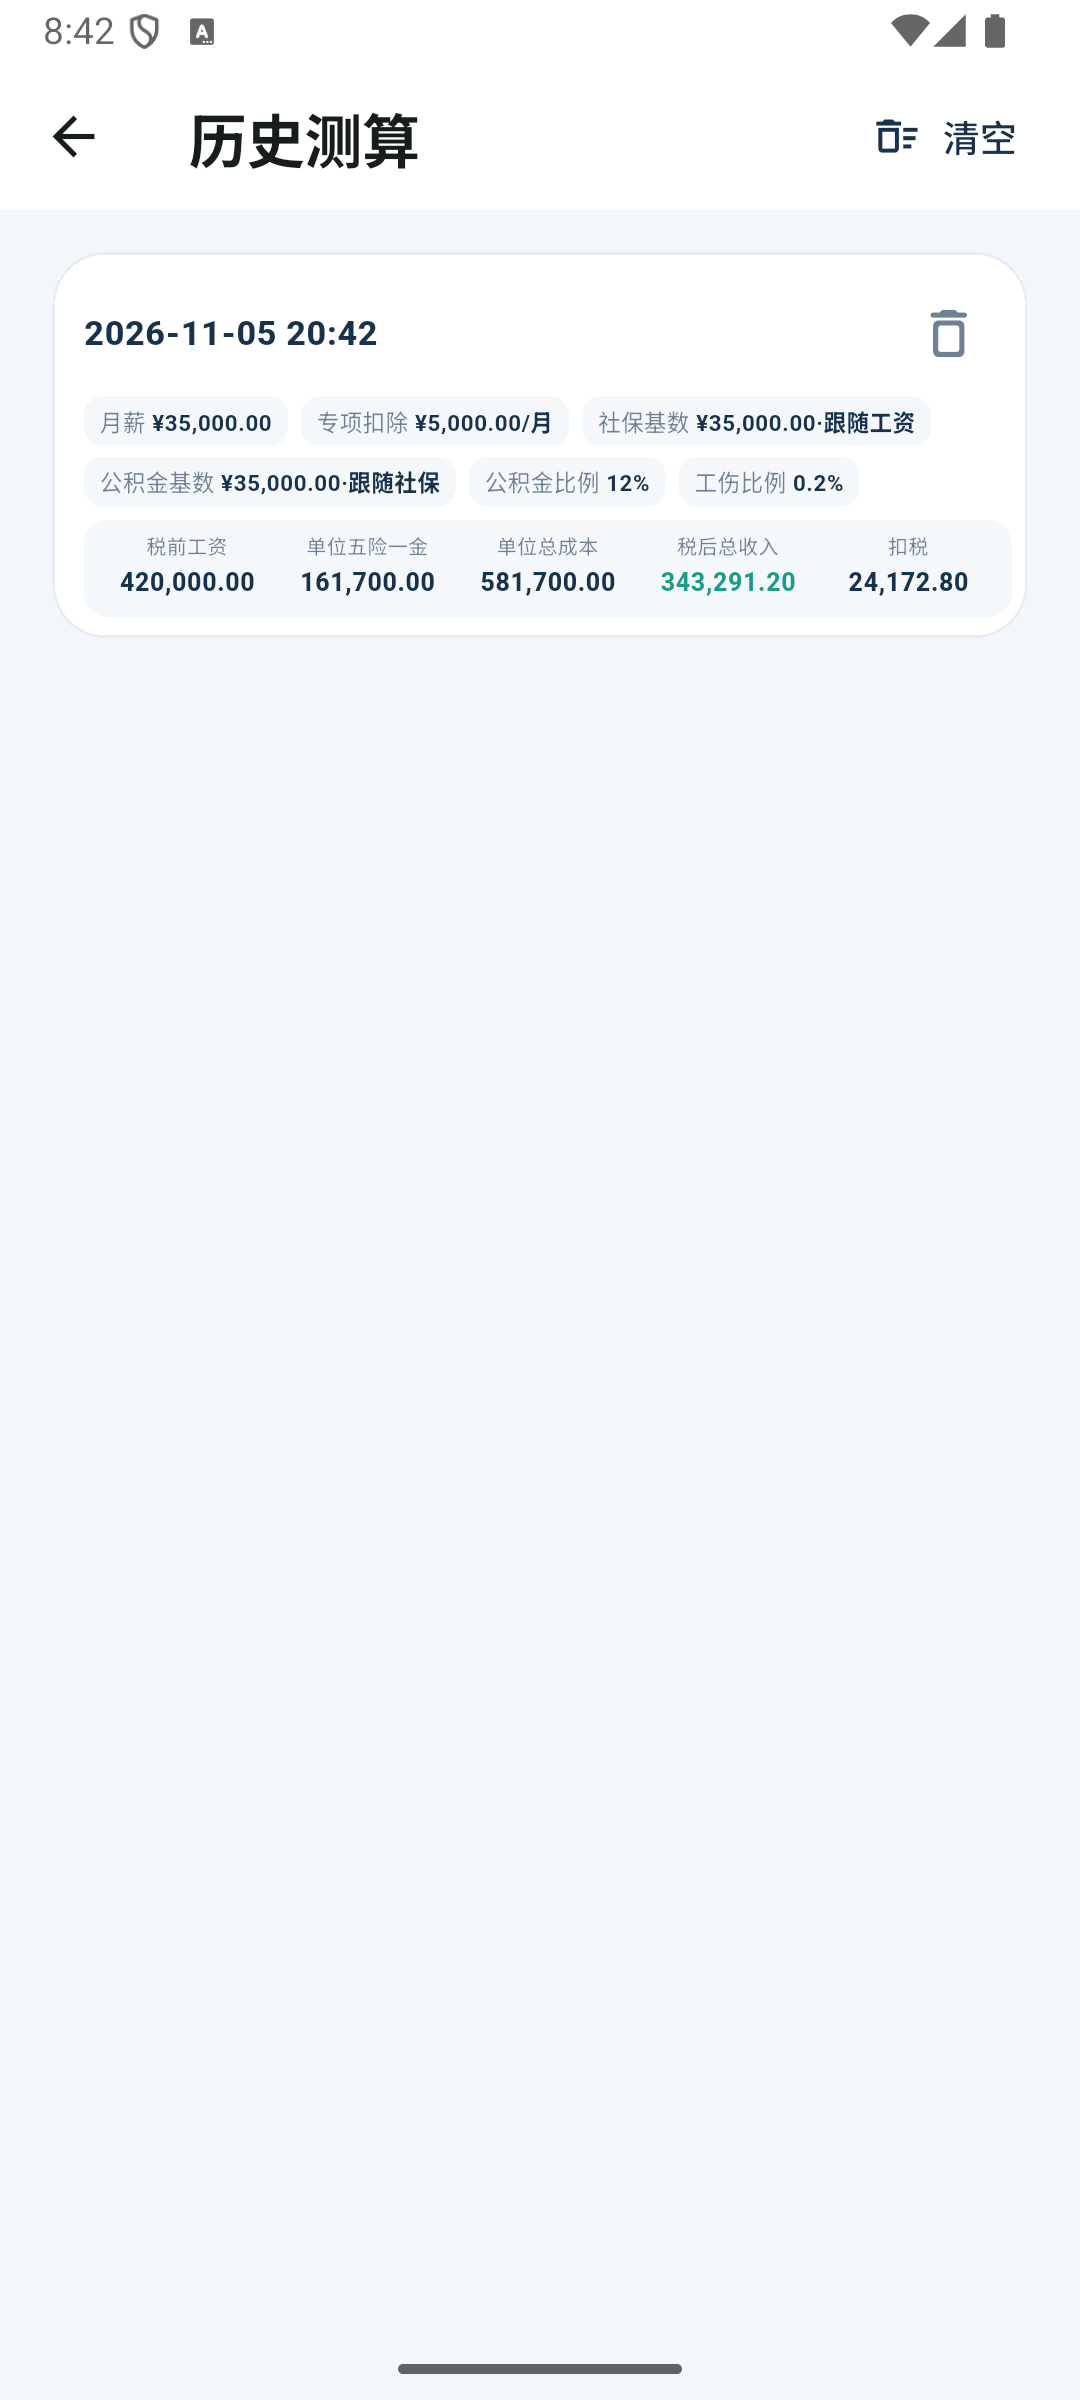
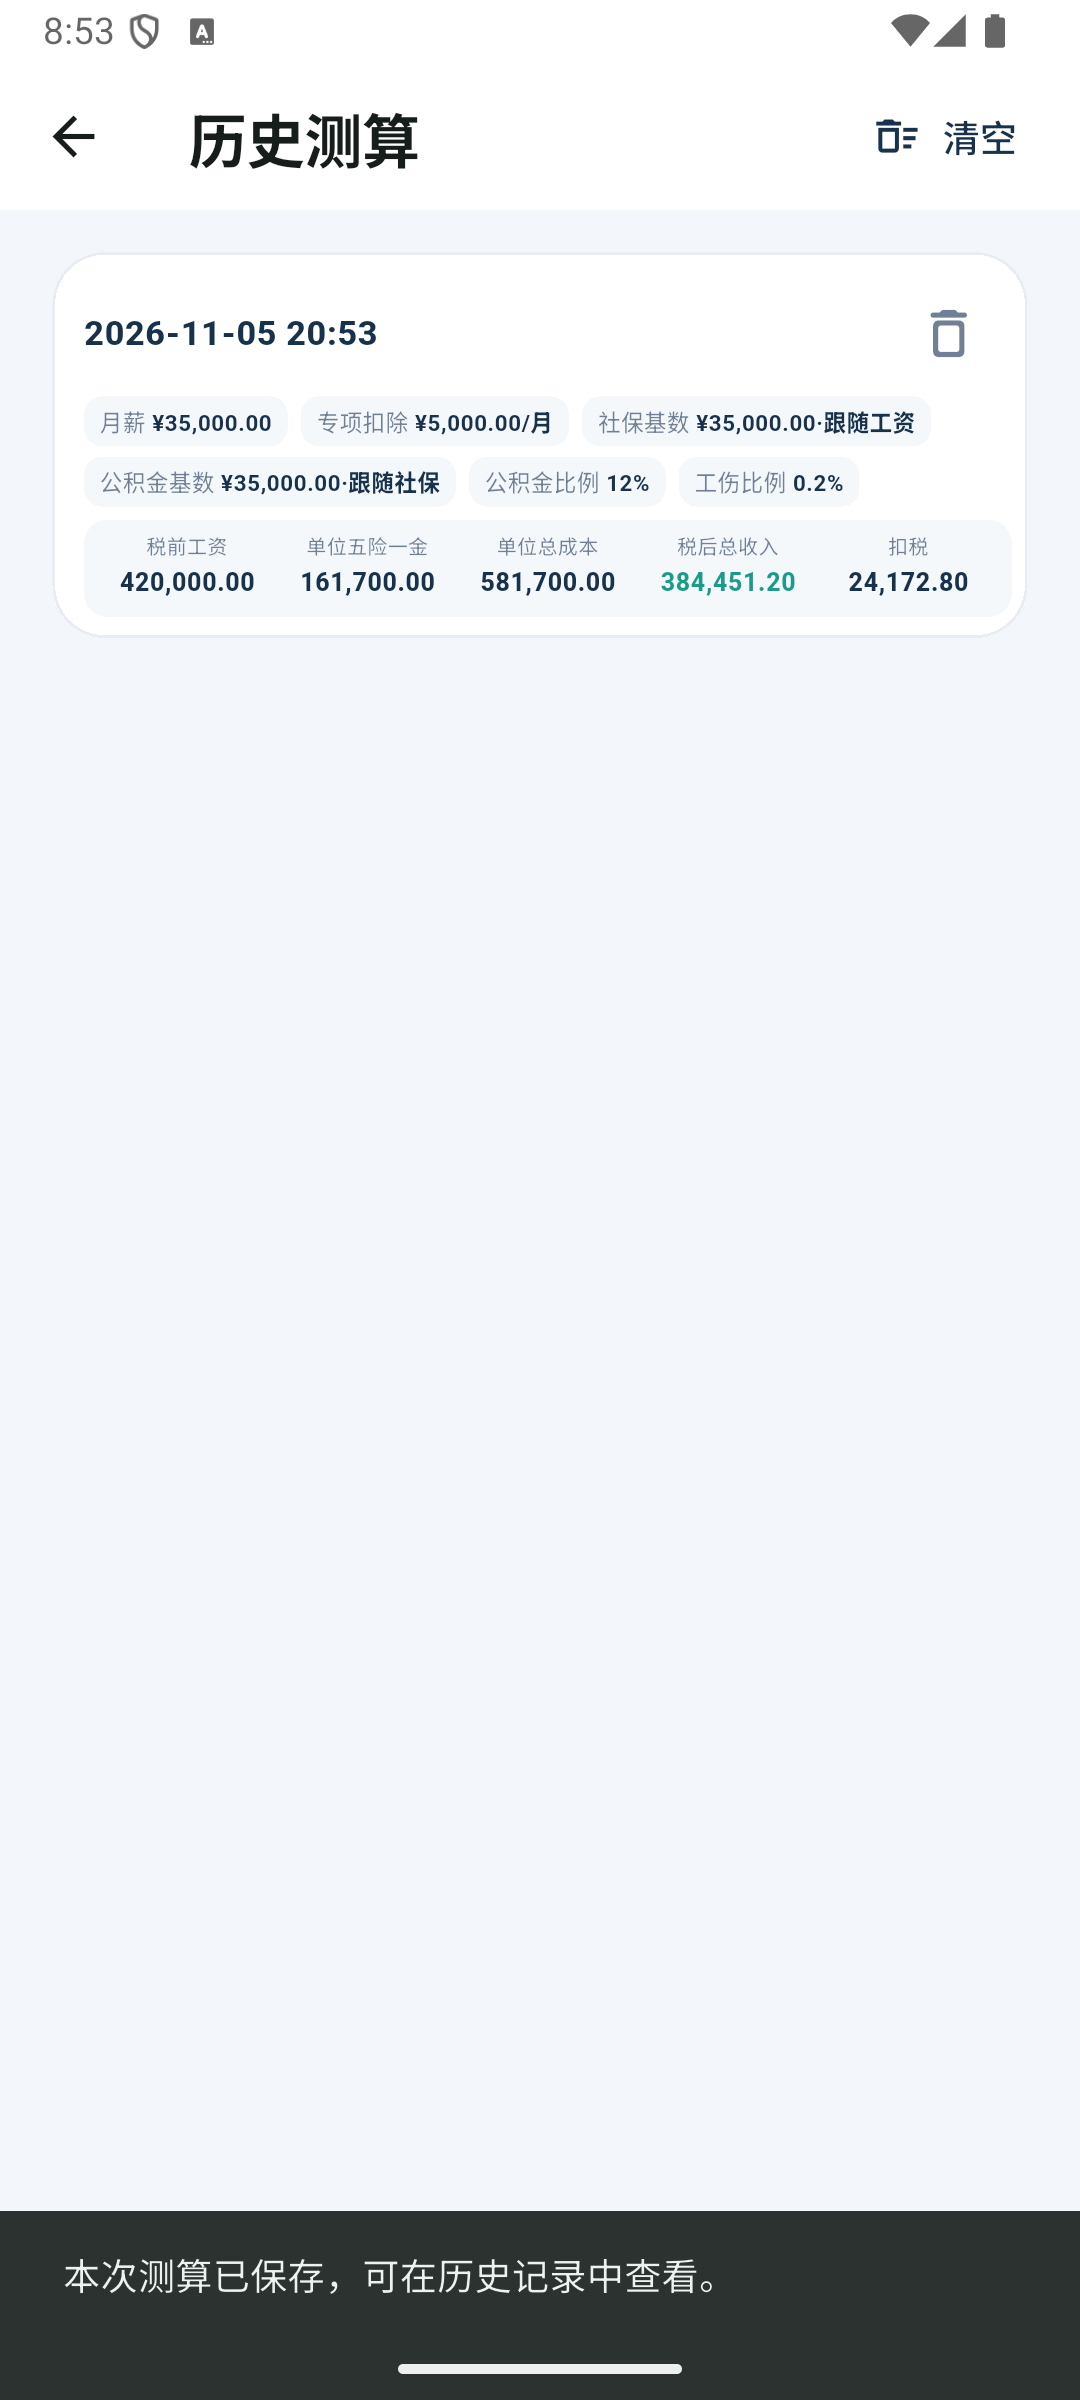
Correct after-tax total income formula

diff --git a/lib/features/calculator/income_breakdown_widgets.dart b/lib/features/calculator/income_breakdown_widgets.dart
@@ -42,6 +42,7 @@ class IncomeTotals {
       personalAfterTaxIncome +=
           month.netCashCents +
           month.employeePensionCents +
+          month.employerMedicalCents +
           month.employeeMedicalCents;
       tax += month.monthlyTaxCents;
       employerContribution +=
@@ -354,7 +355,7 @@ class MonthlyIncomeTable extends StatelessWidget {
         ),
         SizedBox(height: compact ? 4 : 7),
         Text(
-          '税后总收入 = 税后工资 + 个人养老账户入账 + 个人医保账户入账；单位总成本 = 税前工资 + 单位五险一金。',
+          '税后总收入 = 税后工资 + 个人养老账户入账 + 双边医保账户入账（单位和个人）；单位总成本 = 税前工资 + 单位五险一金。',
           style: TextStyle(
             color: _incomeMuted,
             fontSize: compact ? 7 : 9,
@@ -376,6 +377,7 @@ class MonthlyIncomeTable extends StatelessWidget {
     formatCents(
       month.netCashCents +
           month.employeePensionCents +
+          month.employerMedicalCents +
           month.employeeMedicalCents,
       withSymbol: false,
     ),

diff --git a/lib/features/calculator/calculation_share_service.dart b/lib/features/calculator/calculation_share_service.dart
@@ -214,7 +214,7 @@ class _SalaryShareCard extends StatelessWidget {
           const SizedBox(height: 12),
           _ShareSection(
             title: '逐月收入明细',
-            subtitle: '单位：元 · 展示税前工资、单位成本、税后总收入和扣税',
+            subtitle: '单位：元 · 税前工资、单位五险一金、单位总成本、税后总收入、扣税',
             child: MonthlyIncomeTable(
               months: snapshot.months,
               showHeading: false,

diff --git a/README.md b/README.md
@@ -10,7 +10,7 @@
 | --- | --- | --- | --- |
 | <img src="screenshots/calculator.png" alt="首页当前薪资方案、全年结果和截图分享入口" width="190"> | <img src="screenshots/monthly-expanded.png" alt="首页逐月收入表格，显示税前工资、单位五险一金、单位总成本、税后总收入和扣税" width="190"> | <img src="screenshots/contribution-rates.png" alt="单位和个人固定缴费比例" width="190"> | <img src="screenshots/calculation-history.png" alt="历史测算列表，显示薪资方案条件和五项年度汇总" width="190"> |
 
-以上页面使用当前代码在 Android 15 模拟器上重新截取。首页和历史详情的逐月表格采用一致的五项数据：税前工资、单位五险一金、单位总成本、税后总收入、扣税。首页使用 ¥35,000 月薪、¥5,000 专项附加扣除的演示方案；历史列表展示已保存的方案条件和年度汇总。
+以上页面使用当前代码在 Android 15 模拟器上重新截取。首页和历史详情的逐月表格采用一致的五项数据：税前工资、单位五险一金、单位总成本、税后总收入、扣税。其中税后总收入 = 税后工资 + 个人养老账户入账 + 双边医保账户入账（单位和个人）。首页使用 ¥35,000 月薪、¥5,000 专项附加扣除的演示方案；历史列表展示已保存的方案条件和年度汇总。
 
 **薪酬方案分享图片示例**
 
@@ -41,7 +41,7 @@
 - **国家规则速查**：专项附加扣除、公积金比例、公积金基数和工伤费率旁的信息按钮可打开 Markdown 规则说明，并通过官方链接查看完整政策。
 - **便捷键盘操作**：点击页面空白区域即可收起输入键盘。
 - **灵活设置缴费基数**：社保基数可以跟随工资，也可以自定义；应用不会自动套用地区缴费上下限。
-- **查看全年或逐月结果**：首页和历史结果详情使用统一的逐月表格，列出税前工资、单位五险一金、单位总成本、税后总收入和扣税，并显示全年合计。历史详情还可展开逐月扣税依据，查看个人缴费、累计扣除、适用税率档位和预扣税。
+- **查看全年或逐月结果**：首页和历史结果详情使用统一的逐月表格，列出税前工资、单位五险一金、单位总成本、税后总收入和扣税，并显示全年合计。税后总收入按“税后工资 + 个人养老账户入账 + 双边医保账户入账（单位和个人）”计算。历史详情还可展开逐月扣税依据，查看个人缴费、累计扣除、适用税率档位和预扣税。
 - **拆分权益账户入账**：在结果页和历史结果概览中分别查看双边公积金、个人医保账户及个人养老账户入账金额。
 - **逐月收入表格**：首页和历史详情使用相同的紧凑表格展示每月五项关键数据；逐月扣税依据单独折叠，展开后查看累计预扣计算过程。
 - **拆解收入与缴费**：展开“计算依据”查看个人扣款、单位缴费、累计应税收入、预扣税额和综合到手组成。个人失业保险和大病统筹属于扣款，不计入综合到手。
